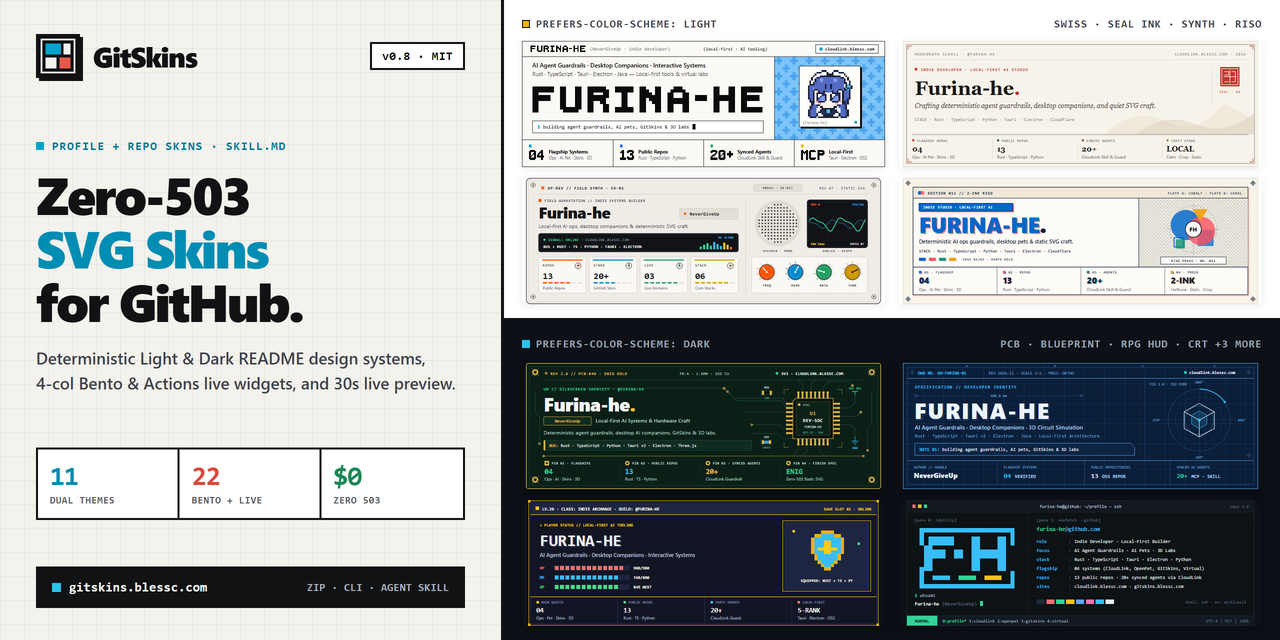
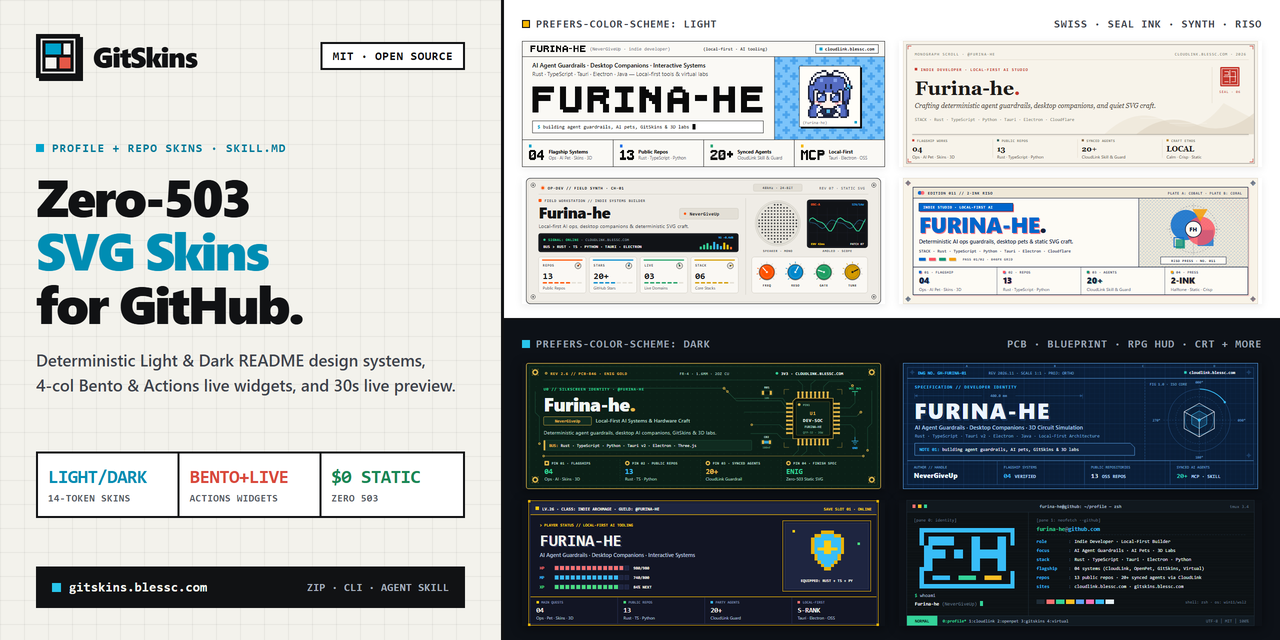
chore: make social preview, meta, repo SVGs evergreen and auto-sync README counts in build_all.py

diff --git a/web/src/i18n.ts b/web/src/i18n.ts
@@ -341,7 +341,7 @@ export const COPY: Record<
     widgetsHeroTitleA: "Craft custom widgets.",
     widgetsHeroTitleB: "Place them anywhere on your profile.",
     widgetsHeroLead:
-      "22 skin-adaptive widgets: 12 Static DIY blocks (keycaps, split-flap, radar, scannable QR, pets, tiles) + 10 Zero-503 GitHub Actions Live Widgets (Stats, Rhythm, RSS, Weather, WakaTime, Spotify, Snake, 3D Skyline, Streak, Activity).",
+      "Skin-adaptive Bento widgets: Static DIY blocks (keycaps, split-flap, radar, scannable QR, pets, tiles) + Zero-503 GitHub Actions Live Widgets (Stats, Rhythm, RSS, Weather, WakaTime, Spotify, Snake, 3D Skyline, Streak, Activity).",
     widgetMountedBadge: "MOUNTED",
     widgetMountBtn: "Mount to Profile Loadout",
     widgetMountedBtn: "Mounted in Loadout (Remove)",
@@ -590,7 +590,7 @@ export const COPY: Record<
     openGen: "生成脚本",
     openRepo: "源码目录",
     contactHeading: "全主题同框对比",
-    contactSub: "同一位开发者的真实仓库在 11 套完全不同美学体系下的效果对比，点击任意海报立即切换预览与复制提示词。",
+    contactSub: "同一位开发者的真实仓库在不同美学体系下的效果对比，点击任意海报立即切换预览与复制提示词。",
     selectedBadge: "当前预览",
     previewSkin: "查看这套皮肤",
     howHeading: "为什么复制提示词后，Agent 能一次稳定出好图？",
@@ -603,7 +603,7 @@ export const COPY: Record<
       {
         num: "02",
         title: "多形态主题联动挂件",
-        body: "不止底栏卡片：支持直接合进 Hero 角落的动态贴纸、846×48 像素巡逻跑道、204² 迷你动态小方砖与 10 款 Actions 活挂件，自动继承全部 11 套皮肤语义令牌。",
+        body: "不止底栏卡片：支持直接合进 Hero 角落的动态贴纸、846×48 像素巡逻跑道、204² 迷你动态小方砖与 Actions 活挂件，自动继承全部皮肤语义令牌。",
       },
       {
         num: "03",
@@ -627,7 +627,7 @@ export const COPY: Record<
     widgetsHeroTitleA: "自由 DIY 小挂件，",
     widgetsHeroTitleB: "任意位置、多种形态自动换肤。",
     widgetsHeroLead:
-      "22 款主题联动挂件：12 款纯前端 DIY 积木（机械键帽、翻页屏、六维雷达、可扫二维码、桌宠、方砖）+ 10 款零 503 GitHub Actions 活挂件（统计、作息、RSS、天气、WakaTime、Spotify、贡献图贪吃蛇、3D 天际线、连胜火炬、动态日志）。",
+      "主题联动 4 列 Bento 挂件：纯前端 DIY 积木（机械键帽、翻页屏、六维雷达、可扫二维码、桌宠、方砖）+ 零 503 GitHub Actions 活挂件（统计、作息、RSS、天气、WakaTime、Spotify、贡献图贪吃蛇、3D 天际线、连胜火炬、动态日志）。",
     widgetMountedBadge: "已挂载",
     widgetMountBtn: "挂载到主页套装",
     widgetMountedBtn: "已挂载到套装（点击移出）",
@@ -765,7 +765,7 @@ export const COPY: Record<
     repoHeroTitleA: "同款高辨识度美学，",
     repoHeroTitleB: "现在延伸到你的开源仓库 README。",
     repoHeroLead:
-      "一键将 11 大视觉体系套用到项目仓库：846px 项目海报 Banner、快速安装命令条、特性卡片矩阵、架构流程图与可选 Styled with GitSkins 尾标，支持真仓库拉取、CLI 脚手架与 ZIP 打包。",
+      "一键将同款双主题视觉体系套用到项目仓库：846px 项目海报 Banner、快速安装命令条、特性卡片矩阵、架构流程图与可选 Styled with GitSkins 尾标，支持真仓库拉取、CLI 脚手架与 ZIP 打包。",
     repoTryPlaceholder: "输入公开仓库 owner/repo（如 Furina-he/gitskins、vitejs/vite）...",
     repoTryBtn: "拉取仓库",
     repoLivePrefix: "实时仓库",

diff --git a/web/index.html b/web/index.html
@@ -3,26 +3,26 @@
   <head>
     <meta charset="UTF-8" />
     <meta name="viewport" content="width=device-width, initial-scale=1.0" />
-    <title>GitSkins — 11 Light &amp; Dark SVG Skins &amp; Zero-503 Widgets for GitHub READMEs</title>
+    <title>GitSkins — Curated Light &amp; Dark SVG Skins &amp; Zero-503 Widgets for GitHub</title>
     <meta
       name="description"
-      content="Deterministic Light & Dark SVG skins, 22 Bento & zero-503 GitHub Actions live widgets, and Repo Skins. Enter any GitHub username for a 30s live preview, ZIP export, or one-click AI Agent SKILL.md."
+      content="Deterministic Light & Dark SVG theme systems, 4-col Bento & zero-503 GitHub Actions live widgets, and Repo Skins. Enter any GitHub username for a 30s live preview, ZIP export, or one-click AI Agent SKILL.md."
     />
     <link rel="canonical" href="https://gitskins.blessc.com/" />
     <meta property="og:type" content="website" />
     <meta property="og:site_name" content="GitSkins" />
     <meta property="og:url" content="https://gitskins.blessc.com/" />
-    <meta property="og:title" content="GitSkins — 11 Light & Dark SVG Skins & Zero-503 Widgets for GitHub" />
+    <meta property="og:title" content="GitSkins — Curated Light & Dark SVG Skins & Zero-503 Widgets for GitHub" />
     <meta
       property="og:description"
-      content="Replace 503-prone GitHub stat APIs with 11 cohesive Light & Dark SVG skins, 22 Bento & Actions live widgets, Repo Skins, and native AI Agent SKILL.md. Try your GitHub username live in 30s."
+      content="Replace 503-prone GitHub stat APIs with curated Light & Dark SVG skins, 4-col Bento & Actions live widgets, Repo Skins, and native AI Agent SKILL.md. Try your GitHub username live in 30s."
     />
     <meta property="og:image" content="https://gitskins.blessc.com/og-image.png" />
     <meta property="og:image:width" content="1280" />
     <meta property="og:image:height" content="640" />
-    <meta property="og:image:alt" content="GitSkins — 11 Light and Dark GitHub SVG Skins & Zero-503 Widgets Showcase" />
+    <meta property="og:image:alt" content="GitSkins — Curated Light and Dark GitHub SVG Skins & Zero-503 Widgets Showcase" />
     <meta name="twitter:card" content="summary_large_image" />
-    <meta name="twitter:title" content="GitSkins — 11 Light & Dark SVG Skins & Zero-503 Widgets for GitHub" />
+    <meta name="twitter:title" content="GitSkins — Curated Light & Dark SVG Skins & Zero-503 Widgets for GitHub" />
     <meta
       name="twitter:description"
       content="Zero-503 static Light & Dark SVG design system for GitHub Profiles & Repo READMEs. Live preview any username in 30s."

diff --git a/scripts/build_all.py b/scripts/build_all.py
@@ -124,6 +124,93 @@ def validate_brand_icon_parity() -> None:
             raise SystemExit("Brand icon drift: assets/logo.svg and web/public/favicon.svg must match byte-for-byte")
 
 
+def sync_readme_counts(
+    theme_count: int,
+    svgs_per_theme: int,
+    theme_svg_total: int,
+    live_svg_total: int,
+) -> None:
+    catalog_path = ROOT / "web" / "src" / "widgets" / "catalog.ts"
+    if not catalog_path.exists():
+        return
+    catalog_txt = catalog_path.read_text(encoding="utf-8")
+    static_widgets = len(re.findall(r'code:\s*"W\d+"', catalog_txt))
+    live_widgets = len(re.findall(r'code:\s*"L\d+"', catalog_txt))
+    widget_total = static_widgets + live_widgets
+
+    readme_en = ROOT / "README.md"
+    if readme_en.exists():
+        orig = readme_en.read_text(encoding="utf-8")
+        txt = orig
+        en_rules = [
+            (r"Themes-\d+_Light_%26_Dark-E45847", f"Themes-{theme_count}_Light_%26_Dark-E45847"),
+            (r'alt="\d+ Light & Dark Themes"', f'alt="{theme_count} Light & Dark Themes"'),
+            (r"Widgets-\d+_Bento_%2B_Live-F5B700", f"Widgets-{widget_total}_Bento_%2B_Live-F5B700"),
+            (r'alt="\d+ Widgets"', f'alt="{widget_total} Widgets"'),
+            (r"across \d+ skins", f"across {theme_count} skins"),
+            (
+                r"static SVGs \(`\d+` per theme = `\d+` SVGs\)",
+                f"static SVGs (`{svgs_per_theme}` per theme = `{theme_svg_total}` SVGs)",
+            ),
+            (r"All \*\*\d+ widgets\*\*", f"All **{widget_total} widgets**"),
+            (
+                r"# 1\. List all \d+ themes, \d+ widgets,",
+                f"# 1. List all {theme_count} themes, {widget_total} widgets,",
+            ),
+            (
+                r"# Builds \d+ themes \(\d+ SVGs\), validates \d+ live SVGs,",
+                f"# Builds {theme_count} themes ({theme_svg_total} SVGs), validates {live_svg_total} live SVGs,",
+            ),
+            (
+                r"# 1\. Regenerate all \d+ themes \(\d+ SVGs\), validate \d+ live widget SVGs,",
+                f"# 1. Regenerate all {theme_count} themes ({theme_svg_total} SVGs), validate {live_svg_total} live widget SVGs,",
+            ),
+        ]
+        for pat, rep in en_rules:
+            txt = re.sub(pat, rep, txt)
+        if txt != orig:
+            readme_en.write_text(txt, encoding="utf-8")
+
+    readme_zh = ROOT / "README_ZH.md"
+    if readme_zh.exists():
+        orig = readme_zh.read_text(encoding="utf-8")
+        txt = orig
+        zh_rules = [
+            (r"精选皮肤-\d+套浅色%2F深色-E45847", f"精选皮肤-{theme_count}套浅色%2F深色-E45847"),
+            (r'alt="\d+ 套双主题皮肤"', f'alt="{theme_count} 套双主题皮肤"'),
+            (r"自适应挂件-\d+款_Bento%2B活挂件-F5B700", f"自适应挂件-{widget_total}款_Bento%2B活挂件-F5B700"),
+            (r'alt="\d+ 款自适应挂件"', f'alt="{widget_total} 款自适应挂件"'),
+            (
+                r"全部 \d+ 套主题均配备成对 \*\*Light / Dark\*\* 语义令牌契约（`meta\.json#tokens`）、严格 XML 校验静态 SVG（每套 `\d+` 张，共 `\d+` 张）",
+                f"全部 {theme_count} 套主题均配备成对 **Light / Dark** 语义令牌契约（`meta.json#tokens`）、严格 XML 校验静态 SVG（每套 `{svgs_per_theme}` 张，共 `{theme_svg_total}` 张）",
+            ),
+            (r"全部 \*\*\d+ 款挂件\*\*", f"全部 **{widget_total} 款挂件**"),
+            (r"### \d+ 款静态 DIY 挂件", f"### {static_widgets} 款静态 DIY 挂件"),
+            (r"### \d+ 款零 503 GitHub Actions 活挂件", f"### {live_widgets} 款零 503 GitHub Actions 活挂件"),
+            (
+                r"# 1\. 查看全部 \d+ 套主题、\d+ 款挂件与 Repo Skin 模块",
+                f"# 1. 查看全部 {theme_count} 套主题、{widget_total} 款挂件与 Repo Skin 模块",
+            ),
+            (
+                r"# 构建 \d+ 套主题（\d+ SVG）、校验 \d+ 张活挂件 SVG 并同步 web/public/",
+                f"# 构建 {theme_count} 套主题（{theme_svg_total} SVG）、校验 {live_svg_total} 张活挂件 SVG 并同步 web/public/",
+            ),
+            (
+                r"# 1\. 重新生成 \d+ 套主题（\d+ 张 SVG）、校验 \d+ 张活挂件 SVG 并同步到 web/public/",
+                f"# 1. 重新生成 {theme_count} 套主题（{theme_svg_total} 张 SVG）、校验 {live_svg_total} 张活挂件 SVG 并同步到 web/public/",
+            ),
+        ]
+        for pat, rep in zh_rules:
+            txt = re.sub(pat, rep, txt)
+        if txt != orig:
+            readme_zh.write_text(txt, encoding="utf-8")
+
+    print(
+        f"Synced README counts ({theme_count} themes / {theme_svg_total} SVGs, "
+        f"{widget_total} widgets [{static_widgets} DIY + {live_widgets} Live] / {live_svg_total} live SVGs)"
+    )
+
+
 def main() -> None:
     WEB_THEMES_DIR.mkdir(parents=True, exist_ok=True)
     manifest: list[dict] = []
@@ -200,15 +287,31 @@ def main() -> None:
     print(f"Synced {len(manifest)} themes into {WEB_THEMES_DIR} (manifest written)")
 
     # Validate and sync live-widgets Python generator & workflow template
+    live_svg_total = 0
     live_gen = LIVE_WIDGETS_DIR / "generate_live_widgets.py"
     if live_gen.exists():
-        subprocess.run([sys.executable, str(live_gen), "--check-all"], check=True)
+        res = subprocess.run(
+            [sys.executable, str(live_gen), "--check-all"],
+            check=True,
+            capture_output=True,
+            text=True,
+        )
+        if res.stdout:
+            print(res.stdout.strip())
+        m_live = re.search(r"Validated\s+(\d+)\s+strict XML SVGs", res.stdout or "")
+        if m_live:
+            live_svg_total = int(m_live.group(1))
         WEB_LIVE_WIDGETS_DIR.mkdir(parents=True, exist_ok=True)
         shutil.copy2(live_gen, WEB_LIVE_WIDGETS_DIR / "generate_live_widgets.py")
         wf_tpl = LIVE_WIDGETS_DIR / "gitskins-widgets.yml"
         if wf_tpl.exists():
             shutil.copy2(wf_tpl, WEB_LIVE_WIDGETS_DIR / "gitskins-widgets.yml")
         print(f"Synced live-widgets generator into {WEB_LIVE_WIDGETS_DIR}")
+
+    # Auto-sync live theme / widget / SVG counts into README.md & README_ZH.md
+    theme_svg_total = sum(int(item["svgCount"]) for item in manifest)
+    svgs_per_theme = int(manifest[0]["svgCount"]) if manifest else 0
+    sync_readme_counts(len(manifest), svgs_per_theme, theme_svg_total, live_svg_total)
 
     # Verify canonical brand icon parity (assets/logo.svg == web/public/favicon.svg)
     validate_brand_icon_parity()

diff --git a/README.md b/README.md
@@ -77,7 +77,7 @@ Most GitHub Profiles and Repo READMEs rely on brittle third-party stat servers t
 </p>
 
 <p>
-  <picture><source media="(prefers-color-scheme: dark)" srcset="./assets/repo-feat-01-dark.svg"><img src="./assets/repo-feat-01-light.svg" alt="11 Curated Aesthetic Systems" width="49%"></picture>&nbsp;<picture><source media="(prefers-color-scheme: dark)" srcset="./assets/repo-feat-02-dark.svg"><img src="./assets/repo-feat-02-light.svg" alt="4-Col Bento & Zero-503 Live Widgets" width="49%"></picture>
+  <picture><source media="(prefers-color-scheme: dark)" srcset="./assets/repo-feat-01-dark.svg"><img src="./assets/repo-feat-01-light.svg" alt="Curated Aesthetic Systems" width="49%"></picture>&nbsp;<picture><source media="(prefers-color-scheme: dark)" srcset="./assets/repo-feat-02-dark.svg"><img src="./assets/repo-feat-02-light.svg" alt="4-Col Bento & Zero-503 Live Widgets" width="49%"></picture>
 </p>
 
 <p>

diff --git a/README_ZH.md b/README_ZH.md
@@ -77,7 +77,7 @@
 </p>
 
 <p>
-  <picture><source media="(prefers-color-scheme: dark)" srcset="./assets/repo-feat-01-dark.svg"><img src="./assets/repo-feat-01-light.svg" alt="11 套精选视觉体系" width="49%"></picture>&nbsp;<picture><source media="(prefers-color-scheme: dark)" srcset="./assets/repo-feat-02-dark.svg"><img src="./assets/repo-feat-02-light.svg" alt="4 列 Bento 与零 503 活挂件" width="49%"></picture>
+  <picture><source media="(prefers-color-scheme: dark)" srcset="./assets/repo-feat-01-dark.svg"><img src="./assets/repo-feat-01-light.svg" alt="精选双主题视觉体系" width="49%"></picture>&nbsp;<picture><source media="(prefers-color-scheme: dark)" srcset="./assets/repo-feat-02-dark.svg"><img src="./assets/repo-feat-02-light.svg" alt="4 列 Bento 与零 503 活挂件" width="49%"></picture>
 </p>
 
 <p>
